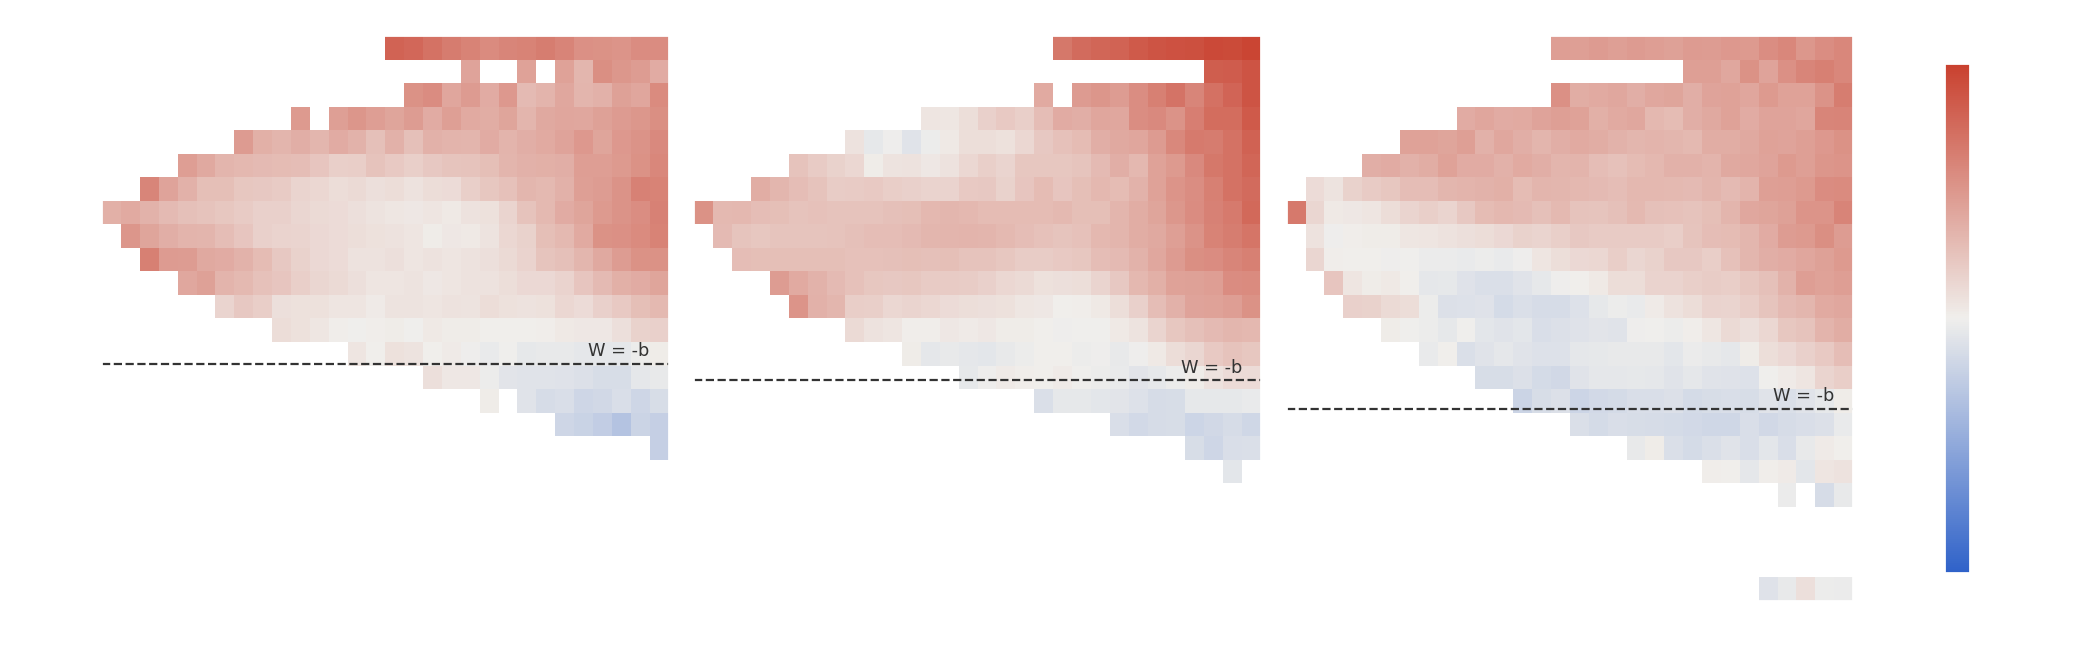
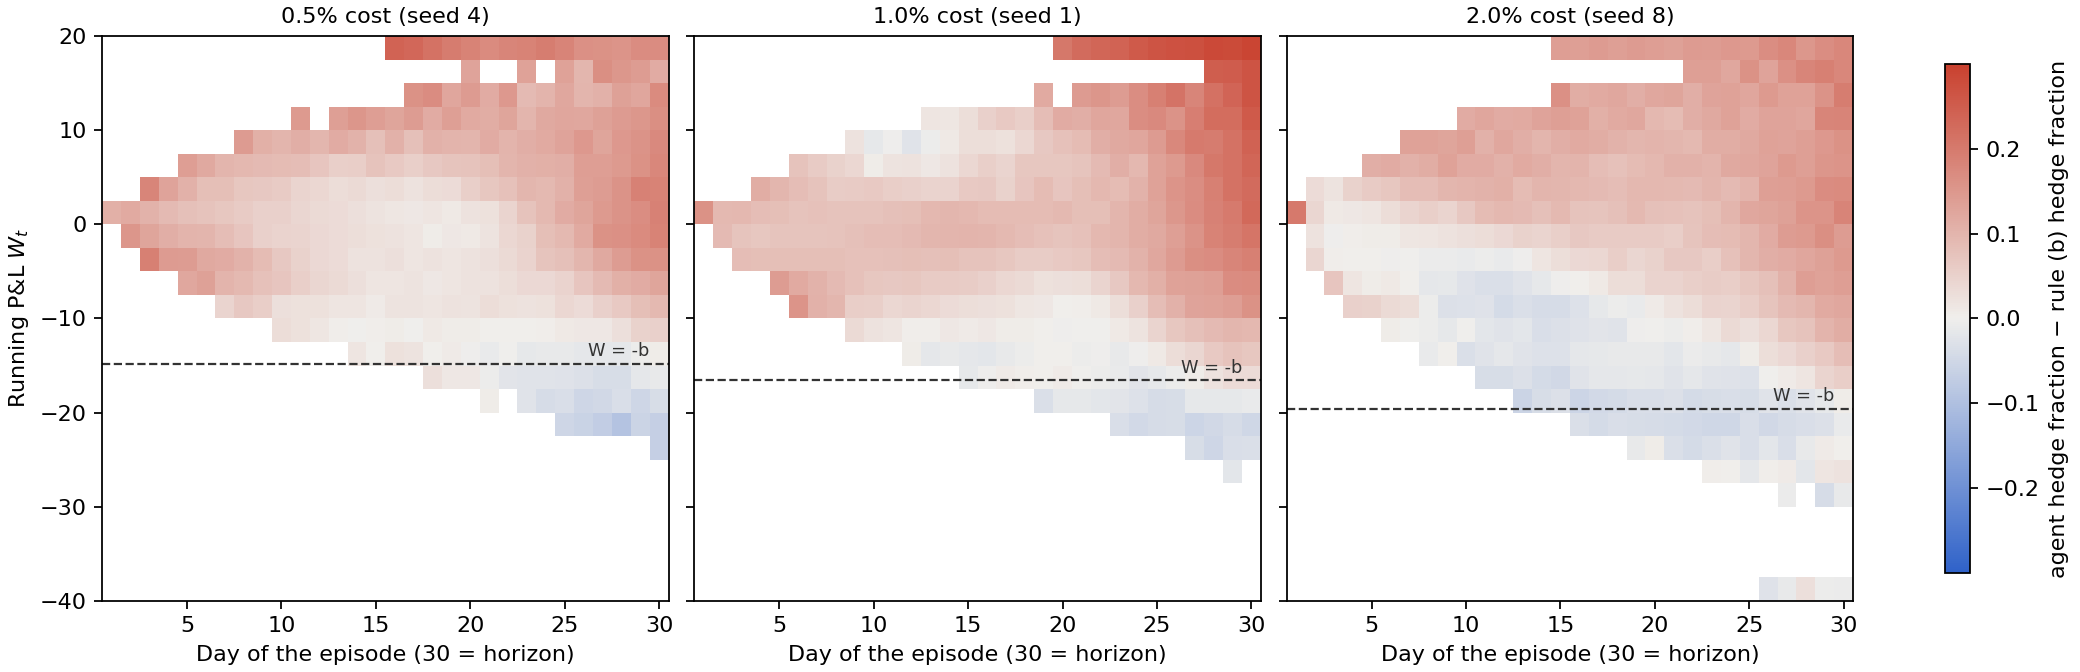
hedge_diff figure: reset rc defaults (analysis import set a dark style)

diff --git a/review/final/hedge_diff_figure.py b/review/final/hedge_diff_figure.py
@@ -28,6 +28,7 @@ a = A.block_args("B", ["--market_dir", "../DRL-Hedging-retrain/markets", "--pric
 m = A.T.get_market(a, 4242, 8192)
 Wbins = np.arange(-40, 22.5, 2.5)
 cmap = LinearSegmentedColormap.from_list("div", ["#2f62c9", "#f0efec", "#c9412f"])
+plt.rcdefaults()
 fig, axes = plt.subplots(1, 3, figsize=(13, 4.2), sharey=True, constrained_layout=True, facecolor="white")
 for ax_ in axes:
     ax_.set_facecolor("white")
